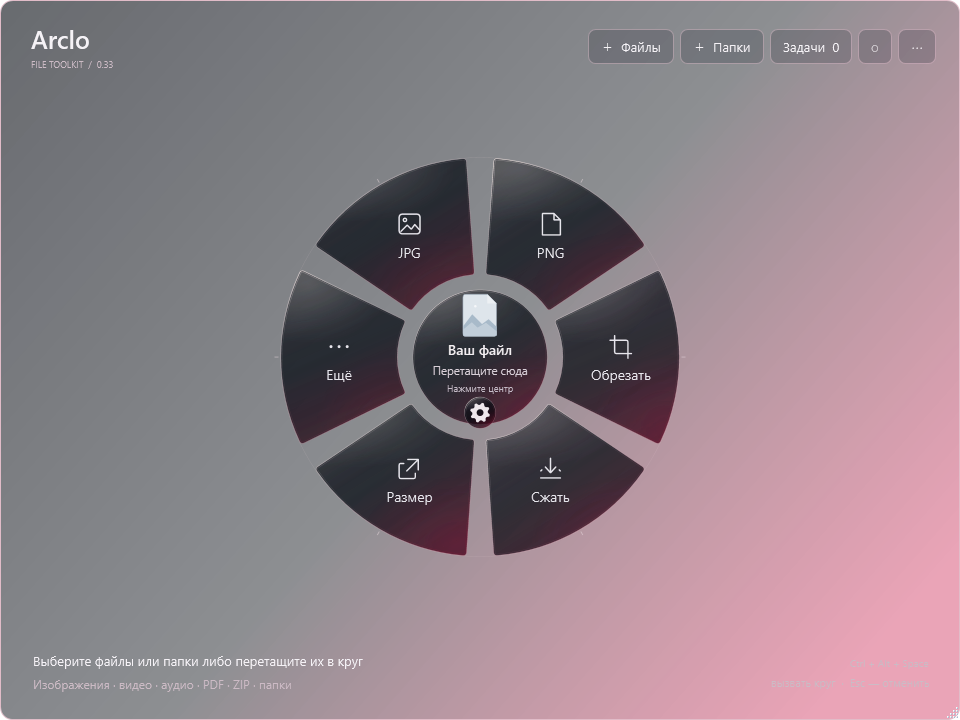
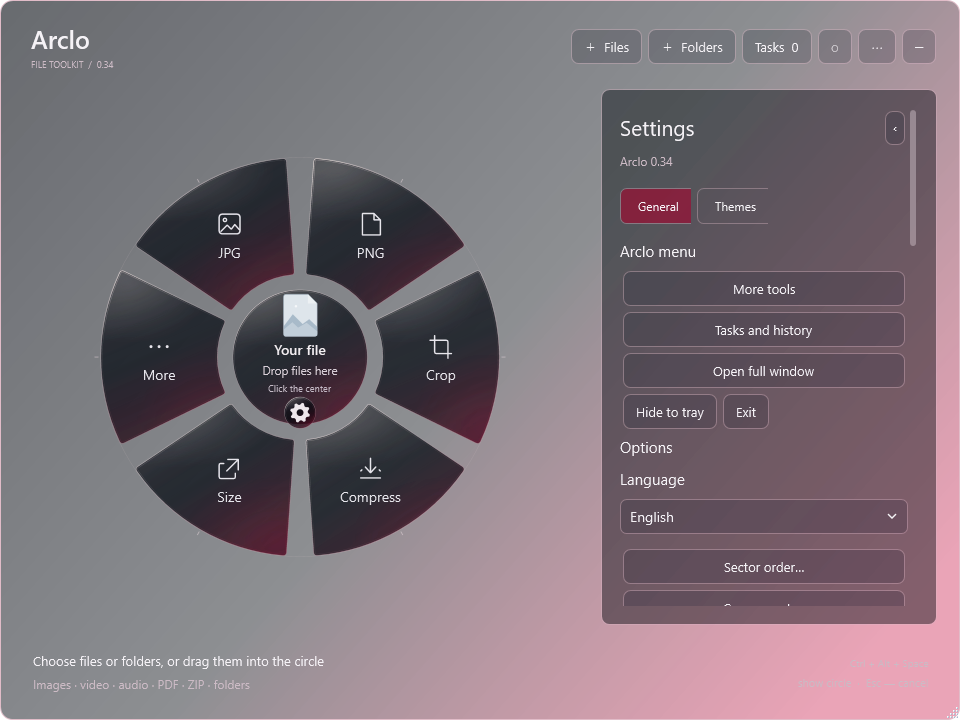
Document live Russian/English UI switching and main-window minimize control

diff --git a/README.ru.md b/README.ru.md
@@ -49,6 +49,7 @@
 - **Управляемая очередь.** Следите за прогрессом, ставьте следующие задачи на паузу, продолжайте или отменяйте. Команды доступны и в трее.
 - **Повторное использование настроек.** Сохраняйте пресеты, закрепляйте избранное, повторяйте обработку или собирайте цепочку инструментов для изображений.
 - **Результаты под рукой.** Открывайте файл, показывайте его в папке, копируйте файл или путь, сравнивайте изображение с оригиналом.
+- **Язык интерфейса.** Автоматически, русский или English — переключение в настройках без перезапуска.
 - **Оформление на выбор.** Стекло Crimson Noir или светлая тема, размер круга, уменьшение прозрачности и порядок секторов.
 
 ## Начало работы
@@ -57,6 +58,8 @@
 2. Выделите файл в Проводнике и нажмите **Ctrl + Alt + Space**. Можно выбрать файлы в самом приложении или перетащить их в круг.
 3. Нажмите действие. Ссылки на дополнительные компоненты обработки доступны внутри приложения, когда они нужны.
 4. Новый файл появится рядом с оригиналом либо в выбранной папке вывода.
+
+Кнопка **−** справа сверху сворачивает главное окно в панель задач. Обработка продолжается.
 
 | Клавиши | Действие |
 | --- | --- |

diff --git a/FUNCTIONALITY-RU.md b/FUNCTIONALITY-RU.md
@@ -129,6 +129,8 @@ Arclo объединяет обработку изображений, видео
 
 ## Пресеты и настройки
 
+В **Настройки → Общие → Язык** выберите **Автоматически**, **Русский** или **English**. Язык меняется сразу и сохраняется для следующих запусков. Кнопка **−** справа сверху сворачивает главное окно в панель задач; очередь продолжает работу.
+
 Сохраните параметры подходящей задачи в пресет, добавьте его в избранное или выберите **«Повтор последней обработки…»**. Пресет применяется к текущему выделению и текущей папке вывода.
 
 В настройках доступны сочетание вызова, **Liquid Glass · Crimson Noir** и светлая тема, размер круга, уменьшение прозрачности, порядок секторов, папка вывода, история, запуск вместе с Windows и пункт Проводника **«Открыть в Arclo»**.

diff --git a/README.md b/README.md
@@ -49,6 +49,7 @@ The circle adapts to your selection. Previews, settings, progress, and results s
 - **Keep the queue under control.** Follow progress, pause the next tasks, resume, or cancel. The tray keeps the controls nearby.
 - **Reuse your settings.** Save presets, pin favorites, repeat an operation, or combine image tools into a short chain.
 - **Get to the result.** Open it, reveal it in Explorer, copy the file or path, or compare an image with its original.
+- **Choose your language.** Automatic, Russian, or English; switch in Settings without restarting.
 - **Make it yours.** Choose Crimson Noir glass or the light theme, change the circle size, reduce transparency, and reorder sectors.
 
 ## Get started
@@ -57,6 +58,8 @@ The circle adapts to your selection. Previews, settings, progress, and results s
 2. Select a file in Explorer and press **Ctrl + Alt + Space**. You can also choose files inside Arclo or drag them into the circle.
 3. Pick an action. Additional processing components are available through links inside the app when needed.
 4. Find the new file beside the original or in your chosen output folder.
+
+Use **−** at the top right to minimize the main window to the taskbar. Processing continues.
 
 | Shortcut | Action |
 | --- | --- |
